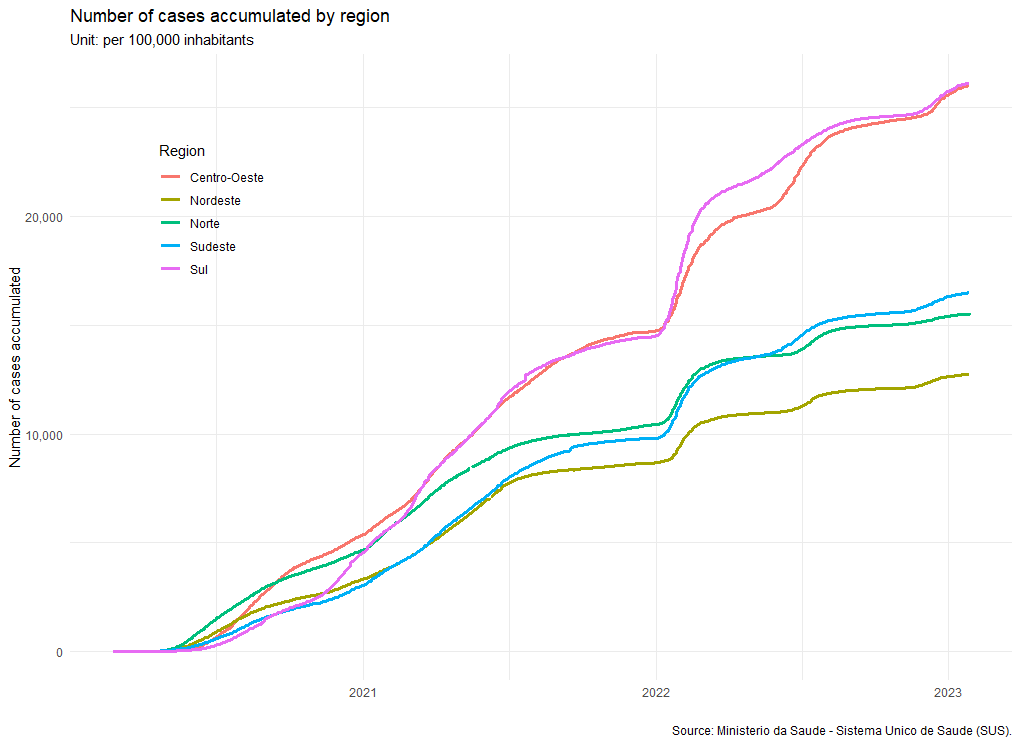
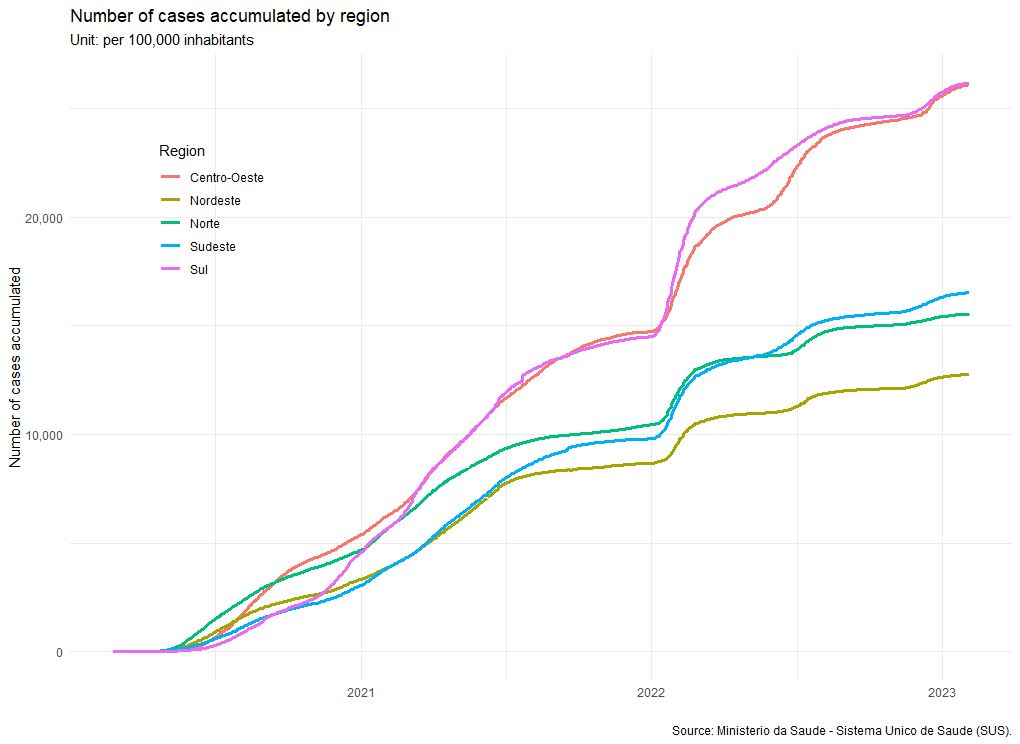
Update README file

diff --git a/README.md b/README.md
@@ -115,7 +115,7 @@ Data source: [Ministerio da Saude - Sistema Unico de Saude
 
 Below is the graph for the number of cases accumulated per 100,000
 inhabitants for each of the five macro-regions in Brazil, information
-until the 2023-01-27.
+until the 2023-02-04.
 
 <img src="man/figures/cases100.png" width="100%" />  
 
@@ -138,7 +138,7 @@ Data source: [Ministerio da Saude - Sistema Unico de Saude
 
 The graph below shows the number of accumulated deaths per 100,000
 inhabitants for each of Brazil’s five macro-regions, information until
-the 2023-01-27.
+the 2023-02-04.
 
 <img src="man/figures/deaths100.png" width="100%" />  
 
